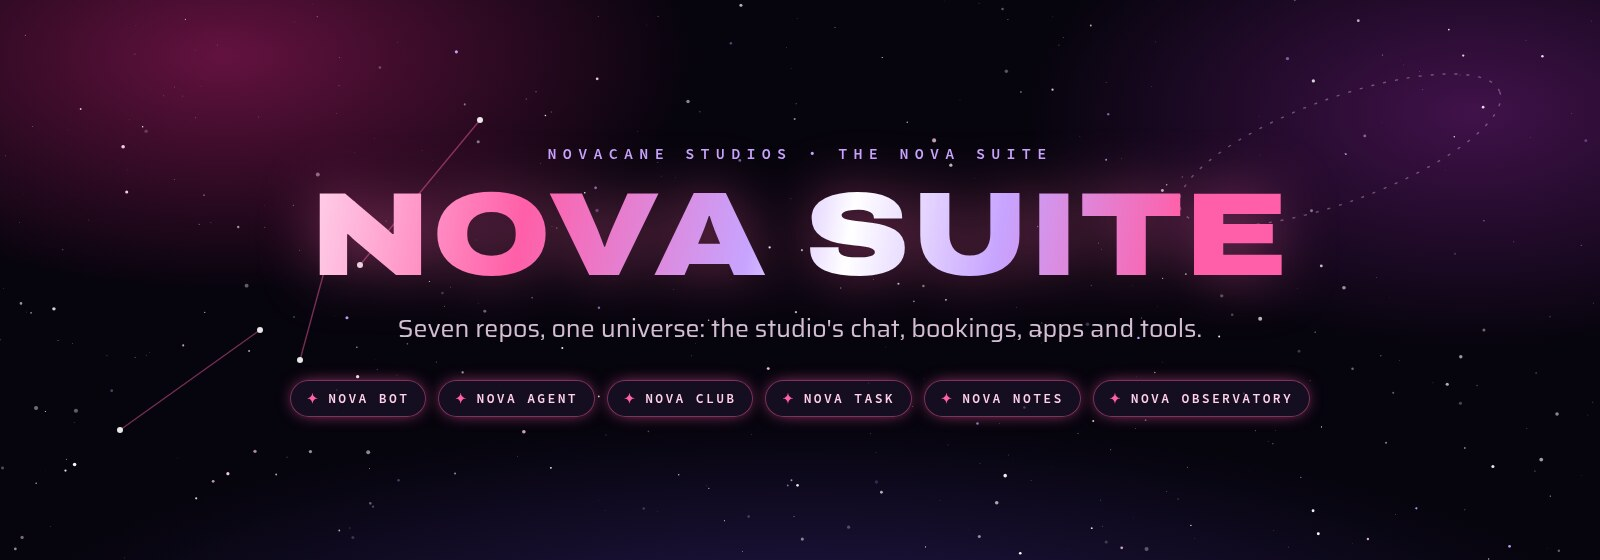
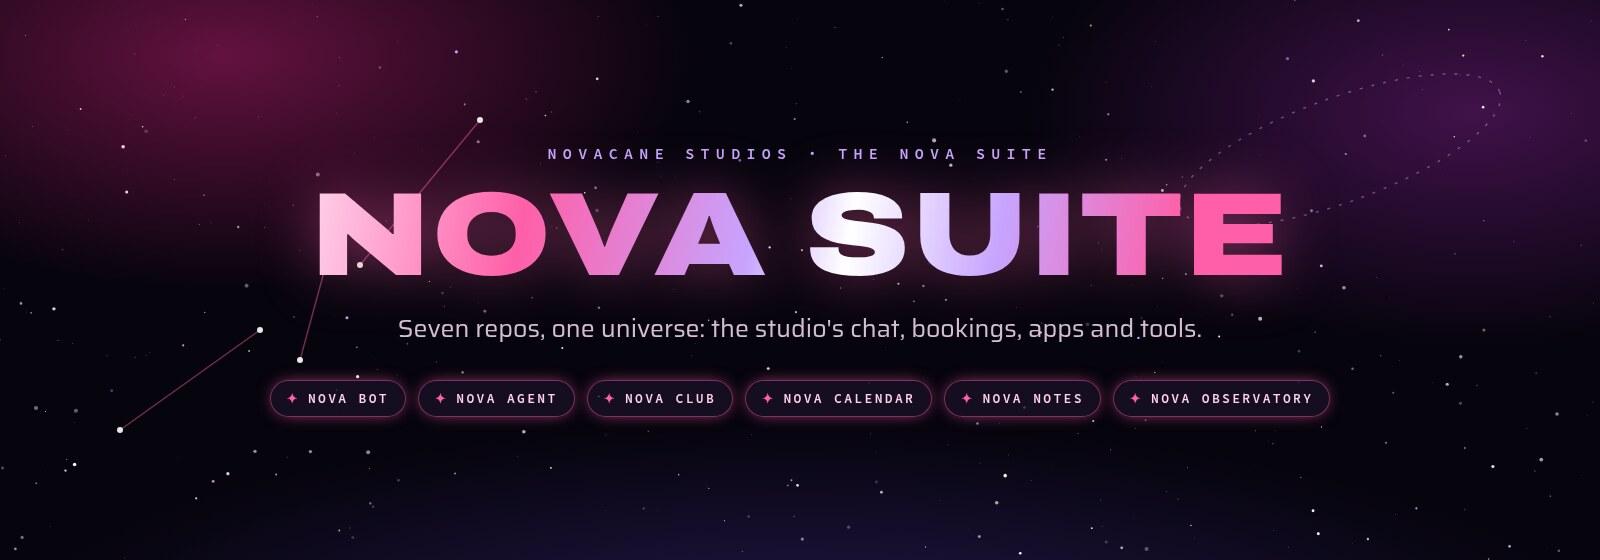
Nova Task is now Nova Calendar
Swap the nova-task submodule for nova-calendar, update the README and
banner, and move every project to its latest version.

Changed region(s): [[0.1562, 0.6679, 0.8438, 0.7589]]

diff --git a/README.md b/README.md
@@ -1,6 +1,6 @@
 <div align="center">
 
-<img src="docs/banner.jpg" alt="Nova Suite: Novacane Studios. Nova Bot, Nova Agent, Nova Club, Nova Task, Nova Notes, Nova Observatory" width="100%">
+<img src="docs/banner.jpg" alt="Nova Suite: Novacane Studios. Nova Bot, Nova Agent, Nova Club, Nova Calendar, Nova Notes, Nova Observatory" width="100%">
 
 **Everything that runs Novacane Studios, plus the little universe of tools around it.**<br>
 The studio's chat assistant and bookings, the staff and members' apps, and a set of cosmic tools, in one home.
@@ -66,12 +66,14 @@ The studio's chat assistant and bookings, the staff and members' apps, and a set
 <tr>
 <td width="50%" valign="top">
 
-### ✦ [Nova Task](https://github.com/tuniveza/nova-task)
-**A cosmic calendar.** Note cards and day cards under the real sky (moon phases, seasons, meteor showers), with a generated space picture for every note.
+### ✦ [Nova Calendar](https://github.com/tuniveza/nova-calendar)
+**A cosmic calendar.** Note cards and day cards under the real sky (moon phases, seasons, meteor showers), with a generated space picture for every note. Installable and works offline.
 
-`Vanilla JS` `Canvas` `Meeus astronomy`
+`PWA` `Vanilla JS` `Canvas` `Meeus astronomy`
 
-<a href="https://github.com/tuniveza/nova-task"><img src="https://raw.githubusercontent.com/tuniveza/nova-task/main/docs/media/month.jpg" alt="Nova Task's month view"></a>
+**[Open Nova Calendar →](https://nova-calendar.novacane-studio.workers.dev)**
+
+<a href="https://github.com/tuniveza/nova-calendar"><img src="https://raw.githubusercontent.com/tuniveza/nova-calendar/main/docs/media/month.jpg" alt="Nova Calendar's month view"></a>
 
 </td>
 <td width="50%" valign="top">
@@ -100,7 +102,7 @@ flowchart TB
   bot -->|alerts · staff chat| hub["Nova Hub<br/>staff phone app (served by Nova Bot)"]
   bot -->|busy times| club["✦ Nova Club<br/>members' Android app"]
   subgraph tools["Standalone tools"]
-    task["✦ Nova Task"]
+    task["✦ Nova Calendar"]
     notes["✦ Nova Notes"]
     obs["✦ Nova Observatory"]
   end
@@ -127,7 +129,7 @@ git submodule update --remote --merge
 | `nova-bot/` | [tuniveza/nova-bot](https://github.com/tuniveza/nova-bot) | Chat, bookings, Nova Hub back end | `npm install && npm run sandbox` |
 | `nova-agent/` | [tuniveza/nova-agent](https://github.com/tuniveza/nova-agent) | Acuity browser helper | see its README (needs an Acuity login) |
 | `nova-club/` | [tuniveza/nova-club](https://github.com/tuniveza/nova-club) | Members' Android app | open in Android Studio |
-| `nova-task/` | [tuniveza/nova-task](https://github.com/tuniveza/nova-task) | Cosmic calendar | open `index.html` |
+| `nova-calendar/` | [tuniveza/nova-calendar](https://github.com/tuniveza/nova-calendar) | Cosmic calendar (PWA) | [use it online](https://nova-calendar.novacane-studio.workers.dev) or open `index.html` |
 | `nova-notes/` | [tuniveza/nova-notes](https://github.com/tuniveza/nova-notes) | Note editor (PWA) | [use it online](https://nova-notes.novacane-studio.workers.dev) or `python3 -m http.server` |
 | `nova-observatory/` | [tuniveza/nova-observatory](https://github.com/tuniveza/nova-observatory) | Project dashboard | `npm install && npm run scan` |
 
